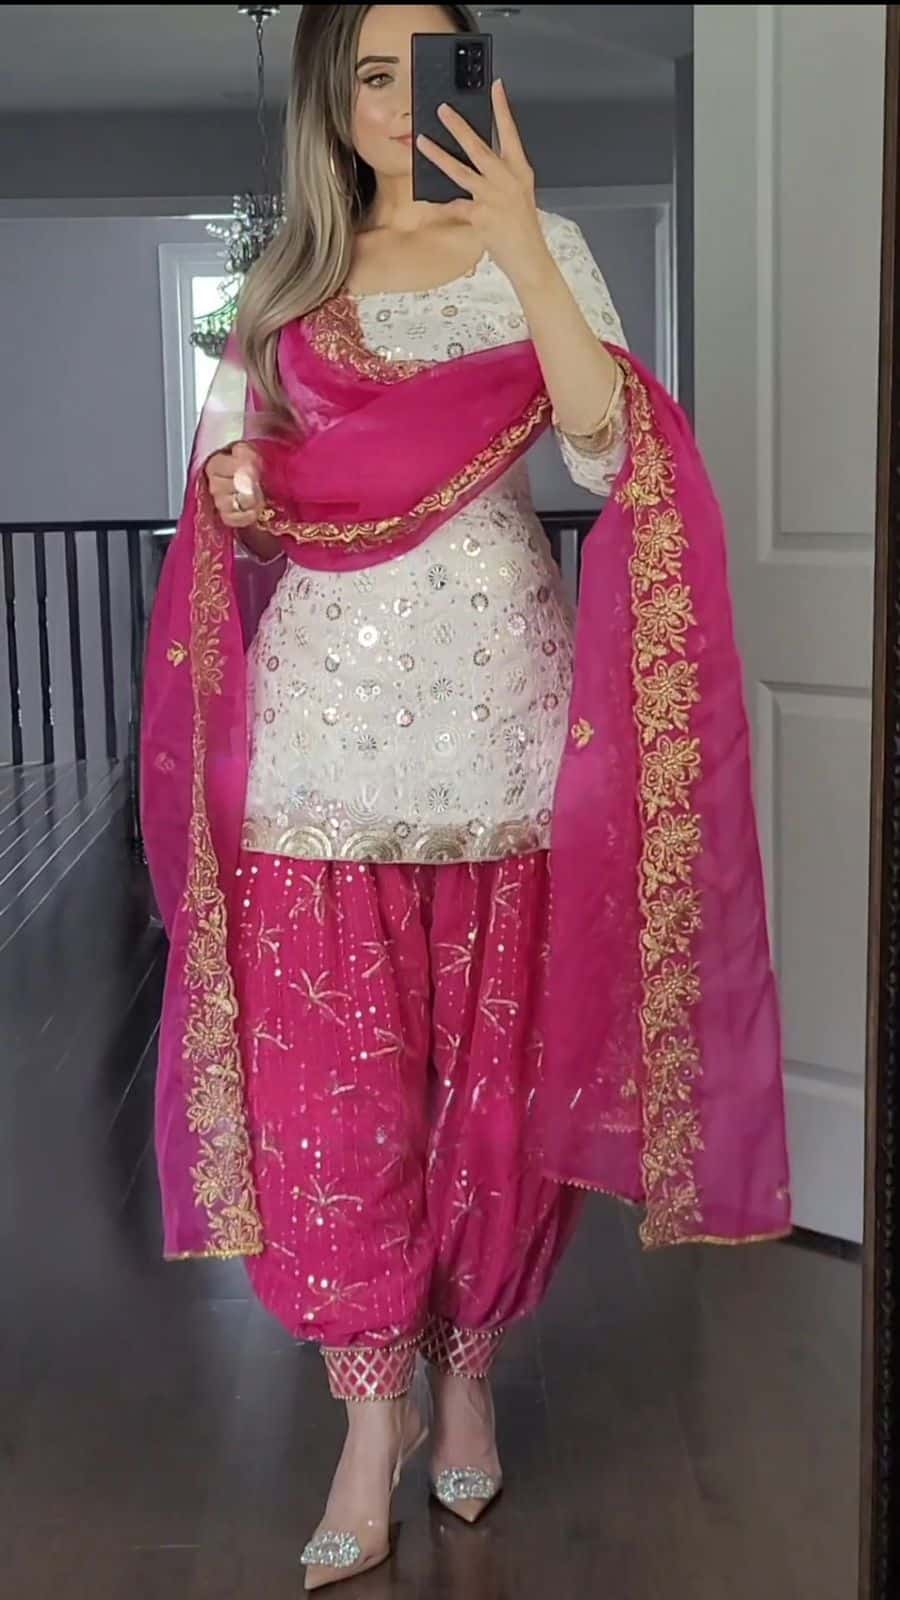
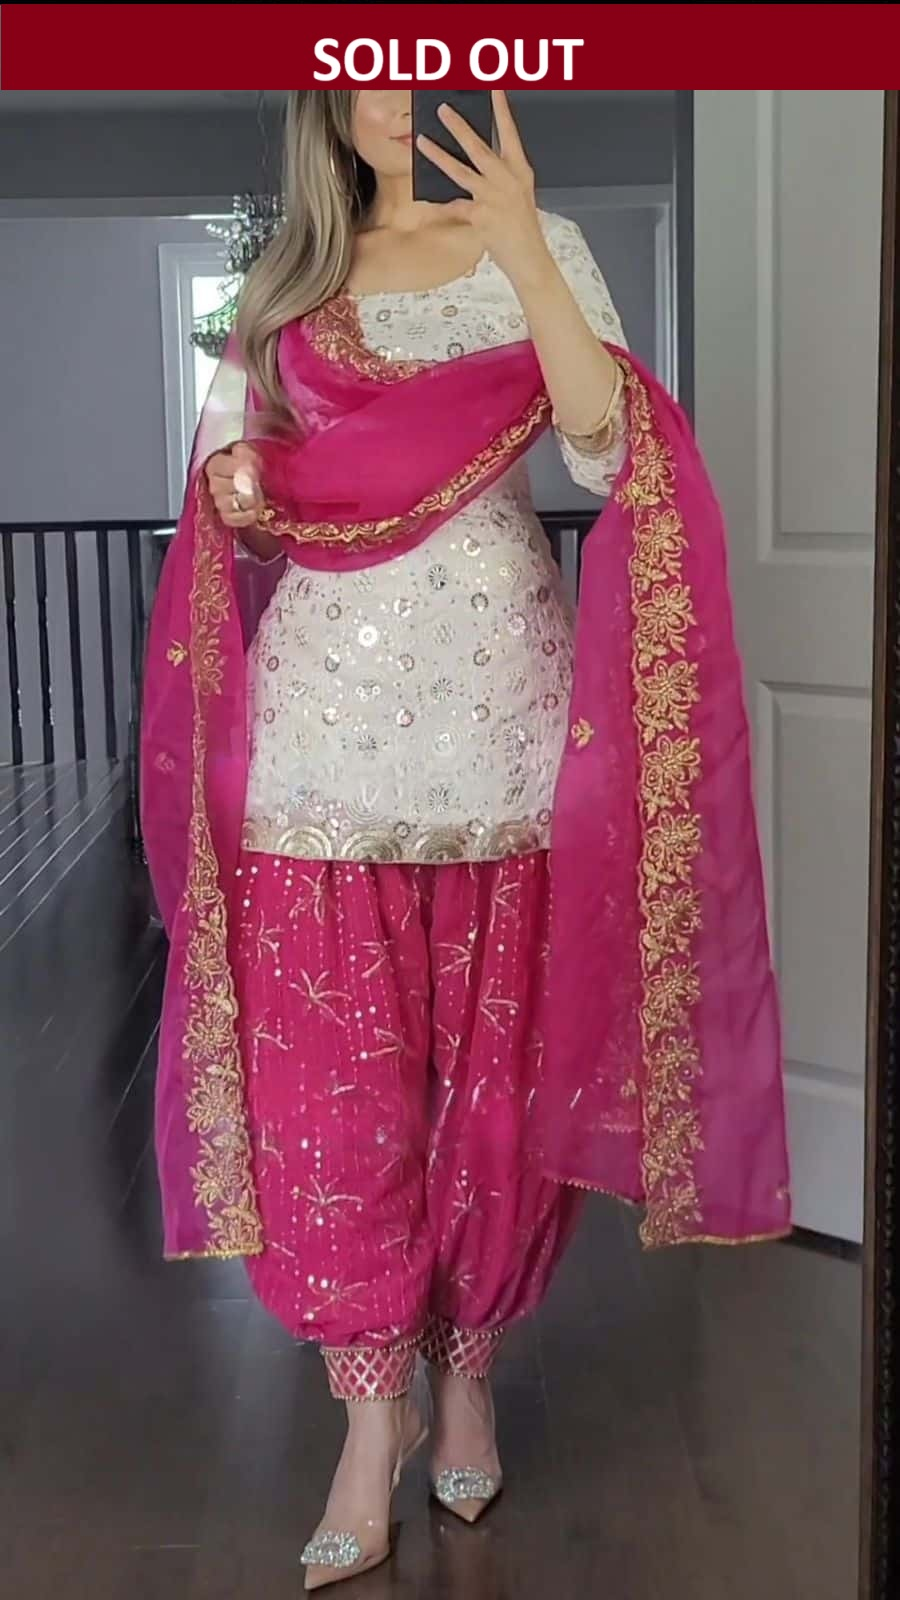
SOLD OUT

Changed region(s): [[0.0, 0.0, 1.0, 0.0625]]

diff --git a/src/components/Suit/AG68685.js b/src/components/Suit/AG68685.js
@@ -30,7 +30,7 @@ const item = {
         colors: "Purple, Pink, Green",
         size: "Medium,Large",
         code: "68685",
-        price: "$65.00"
+        price: "SOLD OUT"
     }
 
 }

diff --git a/src/components/Suit/AG68776.js b/src/components/Suit/AG68776.js
@@ -19,7 +19,7 @@ const item = {
         colors: "Wine",
         size: "XS",
         code: "AG68776",
-        price: "$65.00"
+        price: "SOLD OUT"
     }
 
 }
